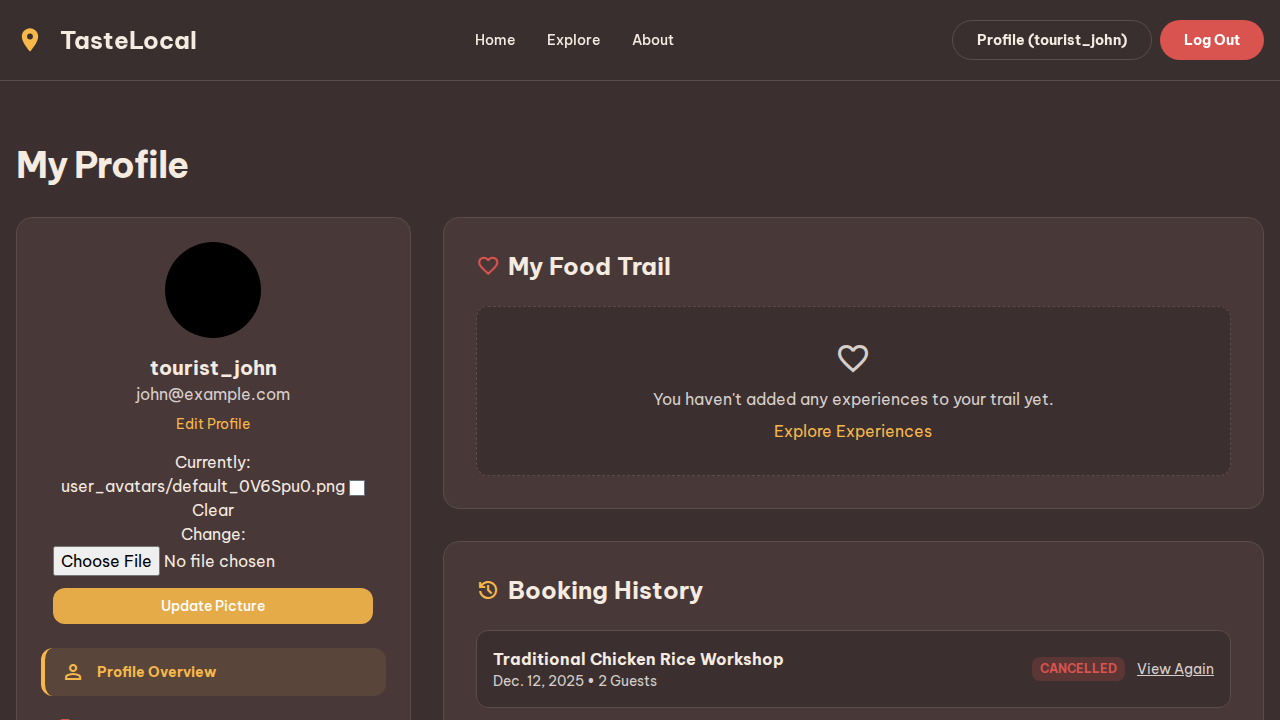
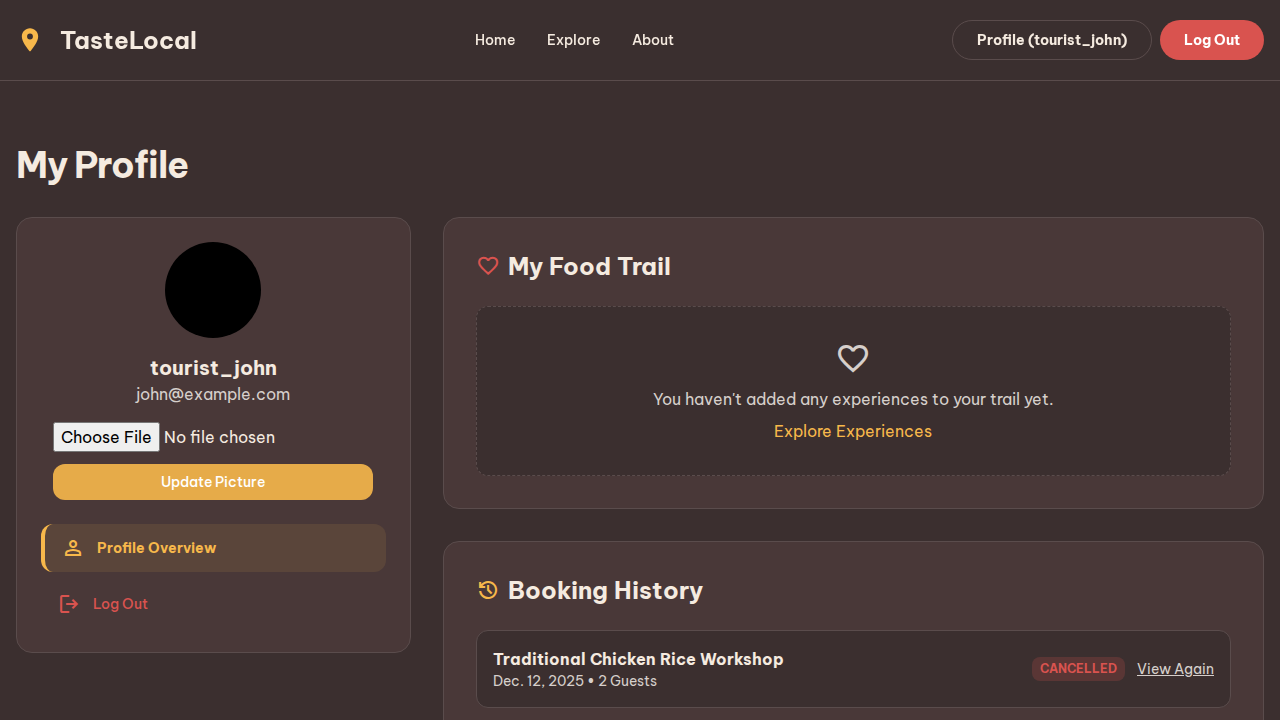
feat: Implement user feedback and enhance data
This commit incorporates several user-requested updates and data enhancements.

Key changes include:
- Added a contact number field to the UserProfile model and integrated it into the profile edit view and templates.
- Created dedicated forms (TouristUserEditForm, TouristProfileEditForm) to resolve styling issues on the profile edit page.
- Updated the data population script to include more detailed shop locations, opening hours, and an increased number of experiences.
- Modified the explore page templates to display the associated shop name and location on each dish card for better user context.
- Addressed and fixed various bugs identified during testing, including an ImportError and a database migration issue.

Changed region(s): [[0.0312, 0.5806, 0.3125, 0.9778]]

diff --git a/templates/core/edit_tourist_profile.html b/templates/core/edit_tourist_profile.html
@@ -6,10 +6,18 @@
 <section class="py-12">
     <div class="container mx-auto px-4">
         <h1 class="text-4xl font-bold mb-8">Edit Profile</h1>
-        <form method="post" class="bg-card-dark p-8 rounded-lg">
+        <form method="post" enctype="multipart/form-data" class="space-y-6 max-w-lg mx-auto bg-card-dark p-8 rounded-xl border border-border-dark">
             {% csrf_token %}
-            {{ form.as_p }}
-            <button type="submit" class="mt-4 px-6 py-2 bg-primary text-background-dark font-bold rounded hover:bg-opacity-90 transition-opacity">
+
+            <div class="space-y-4">
+                {{ user_form.as_p }}
+            </div>
+
+            <div class="space-y-4">
+                {{ profile_form.as_p }}
+            </div>
+
+            <button type="submit" class="w-full flex justify-center py-3 px-4 border border-transparent rounded-full shadow-sm text-sm font-bold text-white bg-secondary hover:bg-opacity-90 focus:outline-none focus:ring-2 focus:ring-offset-2 focus:ring-secondary">
                 Save Changes
             </button>
         </form>

diff --git a/templates/core/explore.html b/templates/core/explore.html
@@ -134,6 +134,12 @@
                             <div class="p-6 flex flex-col flex-grow">
                                 <h3 class="text-xl font-bold group-hover:text-primary transition-colors">
                                     {{ dish.name }}</h3>
+                                <p class="text-sm font-semibold text-text-dark mt-1">{{ dish.shop.business_name }}</p>
+                                <div class="flex items-center gap-1 mt-1">
+                                    <span class="material-symbols-outlined text-accent !text-base">place</span>
+                                    <span
+                                        class="text-xs font-medium text-text-dark-muted">{{ dish.shop.location|truncatechars:40 }}</span>
+                                </div>
                                 <p class="mt-2 text-sm text-text-dark-muted flex-grow">
                                     {{ dish.description|truncatewords:20 }}</p>
                                 {% if dish.price %}

diff --git a/templates/core/experience_list.html b/templates/core/experience_list.html
@@ -22,8 +22,9 @@
             </p>
             <div class="mt-4 flex justify-between items-center">
                 <div class="flex items-center gap-1">
-                    <span class="material-symbols-outlined text-accent !text-xl">place</span>
-                    <span class="text-sm font-medium">{{ experience.vendor.location }}</span>
+                    <span class="material-symbols-outlined text-accent !text-base">place</span>
+                    <span
+                        class="text-xs font-medium text-text-dark-muted">{{ experience.vendor.location|truncatechars:40 }}</span>
                 </div>
                 <div class="flex items-center gap-1">
                     <span class="text-lg font-bold text-primary">${{ experience.price }}</span>

diff --git a/templates/core/profile.html b/templates/core/profile.html
@@ -20,8 +20,6 @@ TasteLocal{% endblock %} {% block content %}
           <h2 class="text-xl font-bold">{{ user.username }}</h2>
           <p class="text-text-dark-muted">{{ user.email }}</p>
 
-          <a href="{% url 'edit_tourist_profile' %}" class="mt-2 text-sm text-primary hover:underline">Edit Profile</a>
-
           <form action="{% url 'profile' %}" method="post" enctype="multipart/form-data" class="w-full max-w-xs mt-4">
             {% csrf_token %}
             <div class="flex flex-col items-center">

diff --git a/populate_singapore_data.py b/populate_singapore_data.py
@@ -1,4 +1,3 @@
-print("Script execution started.")
 import os
 import django
 import random
@@ -47,36 +46,36 @@ def populate(start, end):
     print(f"Processing shops from index {start} to {end}")
 
     shops_data = [
-        {"name": "Tian Tian Hainanese Chicken Rice", "desc": "Famous for its tender chicken and fragrant rice.", "cat": "hawker_centre", "contact": "9691 4852", "hours": "Tue to Sun: 10am - 8pm"},
-        {"name": "Margaret Drive Sin Kee Chicken Rice", "desc": "A popular choice for chicken rice lovers.", "cat": "hawker_centre", "contact": "N/A", "hours": "Tue-Sun 11am-8pm"},
-        {"name": "Ji De Lai Hainanese Chicken Rice", "desc": "Known for its traditional Hainanese chicken rice.", "cat": "hawker_centre", "contact": "N/A", "hours": "8am – 8pm (Mon – Sun)"},
-        {"name": "Heng Heng Cooked Food", "desc": "Serving delicious Laksa and Prawn Noodles.", "cat": "hawker_centre", "contact": "N/A", "hours": "8am – 2pm (Mon – Tues, Fri – Sun), Closed Wed, Thurs"},
-        {"name": "Da Shi Jia Big Prawn Mee", "desc": "A must-try for prawn noodle enthusiasts.", "cat": "hawker_centre", "contact": "+65 6732 1085", "hours": "Daily 11am to 10pm"},
-        {"name": "Jalan Sultan Prawn Mee", "desc": "Famous for its rich and flavorful prawn broth.", "cat": "hawker_centre", "contact": "+65 6748 2488", "hours": "Daily 8am to 3.30pm (CLOSED on Tuesdays)"},
-        {"name": "Fei Fei Roasted • Noodle", "desc": "Serving delicious Wantan Mee.", "cat": "hawker_centre", "contact": "N/A", "hours": "Mon-Sat 9:15 AM to 1:00 PM. Closed: Sundays"},
-        {"name": "Joo Siah Bak Koot Teh", "desc": "A popular spot for Bak Kut Teh.", "cat": "hawker_centre", "contact": "N/A", "hours": "Tue-Sat 8am to 7.15pm. Sun 8am to 3.30pm. Closed on Mondays"},
-        {"name": "Song Fa Bak Kut Teh", "desc": "A well-known Bak Kut Teh chain.", "cat": "hawker_centre", "contact": "+65 6377 6311", "hours": "10:30am-9:30pm, daily"},
-        {"name": "Ann Chin Handmade Popiah", "desc": "Serving delicious handmade Popiah.", "cat": "hawker_centre", "contact": "+65 8189 4699", "hours": "8am to 7pm daily"},
-        {"name": "Hong Heng Fried Sotong Prawn Mee", "desc": "Famous for its Fried Hokkien Mee.", "cat": "hawker_centre", "contact": "N/A", "hours": "10.30am-2.30pm, 4.30pm-6pm (closed on Sundays & Mondays)"},
-        {"name": "Chey Sua Carrot Cake", "desc": "A must-try for carrot cake lovers.", "cat": "hawker_centre", "contact": "N/A", "hours": "Tue – Sun 6am to 1pm, closed on Mon"},
-        {"name": "Hill Street Tai Hwa Pork Noodle", "desc": "A Michelin-starred Bak Chor Mee stall.", "cat": "hawker_centre", "contact": "+65 9272 3920", "hours": "Monday to Sunday 9:00 Am - 8:30 Pm (close 1st and 3rd Monday every month)"},
-        {"name": "Ru Ji Kitchen", "desc": "Famous for its fishball noodles.", "cat": "hawker_centre", "contact": "94350820", "hours": "7am – 1pm (Tue – Sun), Closed Mon"},
-        {"name": "Jian Bo Tiong Bahru Shui Kueh", "desc": "A popular spot for Chwee Kueh.", "cat": "hawker_centre", "contact": "+65 6384 5379", "hours": "5.30am - 8.30pm"},
-        {"name": "Beach Road Fish Head Bee Hoon", "desc": "Famous for its fish head bee hoon.", "cat": "hawker_centre", "contact": "N/A", "hours": "9am to 2pm daily. Closed on Wednesdays and Saturdays."},
-        {"name": "Han Kee", "desc": "Serving delicious fish soup.", "cat": "hawker_centre", "contact": "N/A", "hours": "Mon – Fri. 10:30AM - 3:00PM. Closed Sat, Sun"},
-        {"name": "C.M.Y. Satay", "desc": "A popular spot for satay.", "cat": "hawker_centre", "contact": "9475 2907", "hours": "Tues-Sun 9am to 7pm, Closed on Mondays"},
-        {"name": "Chomp Chomp Satay", "desc": "Another great option for satay.", "cat": "hawker_centre", "contact": "N/A", "hours": "5:30pm – Late about midnight (Mon – Sun)"},
-        {"name": "Liao Fan Hawker Chan", "desc": "The cheapest Michelin-starred meal in the world.", "cat": "hawker_centre", "contact": "+65 6272 2000", "hours": "Open daily 10.30am – 8pm"},
-        {"name": "A Noodle Story", "desc": "Singapore's first and only Michelin-starred ramen.", "cat": "hawker_centre", "contact": "+65 9027 6289", "hours": "Monday to Friday: 11:15am to 2pm, 5:15pm to 7pm. Saturday: 10:45am to 1:15pm. Closed on Sunday."},
-        {"name": "The Blue Ginger", "desc": "A Michelin-starred Peranakan restaurant.", "cat": "restaurant", "contact": "(+65) 6222 3928", "hours": "Mondays – Sundays Lunch : 12pm – 3pm, Dinner : 6.30pm – 10.30pm"},
-        {"name": "Candlenut", "desc": "The world's first Michelin-starred Peranakan restaurant.", "cat": "restaurant", "contact": "1800 304 2288", "hours": "LUNCH, MON – SUN 12:00PM – 3:00PM, DINNER, MON – SUN AND EVE OF PUBLIC HOLIDAYS 6:00PM – 10:00PM"},
-        {"name": "Odette", "desc": "A three-Michelin-starred modern French restaurant.", "cat": "restaurant", "contact": "+65 6385 0498", "hours": "LUNCH TUESDAY TO SATURDAY 12.00pm to 1.15pm, DINNER MONDAY TO SATURDAY 6.30pm to 8.15pm, Closed on Sunday"},
-        {"name": "Les Amis", "desc": "A three-Michelin-starred French restaurant.", "cat": "restaurant", "contact": "+65 6733 2225", "hours": "Daily 12.00 to 14.00, 19.00 to 21.30"},
-        {"name": "Burnt Ends", "desc": "A one-Michelin-starred modern Australian barbecue restaurant.", "cat": "restaurant", "contact": "+65 6224 3933", "hours": "Lunch: Fri – Sat, Dinner: Tues – Sat"},
-        {"name": "JAAN by Kirk Westaway", "desc": "A two-Michelin-starred modern British restaurant.", "cat": "restaurant", "contact": "+65 9199 9008", "hours": "Lunch (Tue to Sat): 11:45am to 2:30pm, Dinner (Tues to Sat): 6:30pm to 10:30pm"},
-        {"name": "Shoukouwa", "desc": "A two-Michelin-starred sushi restaurant.", "cat": "restaurant", "contact": "+65 6423 9939", "hours": "Lunch Tuesday to Saturday 12.30pm to 3pm, Dinner Tuesday to Saturday 1st seating: 6pm to 8pm 2nd seating: 8.15pm to 10.30pm. Closed on Sunday and Monday."},
-        {"name": "Waku Ghin", "desc": "A two-Michelin-starred Japanese restaurant.", "cat": "restaurant", "contact": "+65 6688 8507", "hours": "Tuesday – Sunday: 5.30pm & 8pm ( 2 seatings)"},
-        {"name": "Zen", "desc": "A three-Michelin-starred modern European restaurant.", "cat": "restaurant", "contact": "+65 6534 8880", "hours": "Tuesday – Saturday: 7:00pm – 10:30pm"},
+        {"name": "Tian Tian Hainanese Chicken Rice", "desc": "Famous for its tender chicken and fragrant rice.", "cat": "hawker_centre", "contact": "9691 4852", "hours": "Tue to Sun: 10am - 8pm", "location": "Maxwell Food Centre, 1 Kadayanallur St, #01-10/11, Singapore 069184", "lat": 1.2803, "lon": 103.8449},
+        {"name": "Margaret Drive Sin Kee Chicken Rice", "desc": "A popular choice for chicken rice lovers.", "cat": "hawker_centre", "contact": "9691 4852", "hours": "Tue-Sun 11am-8pm", "location": "40 Holland Dr, #01-39, Singapore 270040", "lat": 1.3065, "lon": 103.7946},
+        {"name": "Ji De Lai Hainanese Chicken Rice", "desc": "Known for its traditional Hainanese chicken rice.", "cat": "hawker_centre", "contact": "9691 4852", "hours": "8am – 8pm (Mon – Sun)", "location": "Chinatown Complex Market & Food Centre, 335 Smith St, #02-170, Singapore 050335", "lat": 1.2818, "lon": 103.8431},
+        {"name": "Heng Heng Cooked Food", "desc": "Serving delicious Laksa and Prawn Noodles.", "cat": "hawker_centre", "contact": "9181 8181", "hours": "8am – 2pm (Mon – Tues, Fri – Sun), Closed Wed, Thurs", "location": "Hong Lim Market & Food Centre, 531A Upper Cross St, #02-09, Singapore 051531", "lat": 1.2841, "lon": 103.8451},
+        {"name": "Da Shi Jia Big Prawn Mee", "desc": "A must-try for prawn noodle enthusiasts.", "cat": "hawker_centre", "contact": "+65 6732 1085", "hours": "Daily 11am to 10pm", "location": "89 Killiney Rd, Singapore 239534", "lat": 1.2989, "lon": 103.8436},
+        {"name": "Jalan Sultan Prawn Mee", "desc": "Famous for its rich and flavorful prawn broth.", "cat": "hawker_centre", "contact": "+65 6748 2488", "hours": "Daily 8am to 3.30pm (CLOSED on Tuesdays)", "location": "2 Jalan Ayer, Singapore 389141", "lat": 1.3126, "lon": 103.8687},
+        {"name": "Fei Fei Roasted • Noodle", "desc": "Serving delicious Wantan Mee.", "cat": "hawker_centre", "contact": "9691 4852", "hours": "Mon-Sat 9:15 AM to 1:00 PM. Closed: Sundays", "location": "Yuhua Village Market and Food Centre, 254 Jurong East St 24, #01-28, Singapore 600254", "lat": 1.3468, "lon": 103.7381},
+        {"name": "Joo Siah Bak Koot Teh", "desc": "A popular spot for Bak Kut Teh.", "cat": "hawker_centre", "contact": "9691 4852", "hours": "Tue-Sat 8am to 7.15pm. Sun 8am to 3.30pm. Closed on Mondays", "location": "347 Jurong East Ave 1, #01-220, Singapore 600347", "lat": 1.3475, "lon": 103.7332},
+        {"name": "Song Fa Bak Kut Teh", "desc": "A well-known Bak Kut Teh chain.", "cat": "hawker_centre", "contact": "+65 6377 6311", "hours": "10:30am-9:30pm, daily", "location": "11 New Bridge Rd, #01-01, Singapore 059383", "lat": 1.2858, "lon": 103.8463},
+        {"name": "Ann Chin Handmade Popiah", "desc": "Serving delicious handmade Popiah.", "cat": "hawker_centre", "contact": "+65 8189 4699", "hours": "8am to 7pm daily", "location": "Chinatown Complex Market & Food Centre, 335 Smith St, #02-112, Singapore 050335", "lat": 1.2818, "lon": 103.8431},
+        {"name": "Hong Heng Fried Sotong Prawn Mee", "desc": "Famous for its Fried Hokkien Mee.", "cat": "hawker_centre", "contact": "9691 4852", "hours": "10.30am-2.30pm, 4.30pm-6pm (closed on Sundays & Mondays)", "location": "Tiong Bahru Market, 30 Seng Poh Rd, #02-01, Singapore 168898", "lat": 1.2850, "lon": 103.8329},
+        {"name": "Chey Sua Carrot Cake", "desc": "A must-try for carrot cake lovers.", "cat": "hawker_centre", "contact": "9691 4852", "hours": "Tue – Sun 6am to 1pm, closed on Mon", "location": "Toa Payoh West Market and Food Court, 127 Lor 1 Toa Payoh, #02-30, Singapore 310127", "lat": 1.3323, "lon": 103.8459},
+        {"name": "Hill Street Tai Hwa Pork Noodle", "desc": "A Michelin-starred Bak Chor Mee stall.", "cat": "hawker_centre", "contact": "+65 9272 3920", "hours": "Monday to Sunday 9:00 Am - 8:30 Pm (close 1st and 3rd Monday every month)", "location": "466 Crawford Ln, #01-12, Singapore 190466", "lat": 1.3065, "lon": 103.8617},
+        {"name": "Ru Ji Kitchen", "desc": "Famous for its fishball noodles.", "cat": "hawker_centre", "contact": "94350820", "hours": "7am – 1pm (Tue – Sun), Closed Mon", "location": "Old Airport Road Food Centre, 51 Old Airport Rd, #01-37, Singapore 390051", "lat": 1.3085, "lon": 103.8850},
+        {"name": "Jian Bo Tiong Bahru Shui Kueh", "desc": "A popular spot for Chwee Kueh.", "cat": "hawker_centre", "contact": "+65 6384 5379", "hours": "5.30am - 8.30pm", "location": "Tiong Bahru Market, 30 Seng Poh Rd, #02-05, Singapore 168898", "lat": 1.2850, "lon": 103.8329},
+        {"name": "Beach Road Fish Head Bee Hoon", "desc": "Famous for its fish head bee hoon.", "cat": "hawker_centre", "contact": "9691 4852", "hours": "9am to 2pm daily. Closed on Wednesdays and Saturdays.", "location": "Whampoa Makan Place, 91 Whampoa Dr, #01-46, Singapore 320091", "lat": 1.3218, "lon": 103.8557},
+        {"name": "Han Kee", "desc": "Serving delicious fish soup.", "cat": "hawker_centre", "contact": "9691 4852", "hours": "Mon – Fri. 10:30AM - 3:00PM. Closed Sat, Sun", "location": "Amoy Street Food Centre, 7 Maxwell Rd, #02-129, Singapore 069111", "lat": 1.2785, "lon": 103.8465},
+        {"name": "C.M.Y. Satay", "desc": "A popular spot for satay.", "cat": "hawker_centre", "contact": "9475 2907", "hours": "Tues-Sun 9am to 7pm, Closed on Mondays", "location": "Lau Pa Sat, 18 Raffles Quay, Singapore 048582", "lat": 1.2798, "lon": 103.8505},
+        {"name": "Chomp Chomp Satay", "desc": "Another great option for satay.", "cat": "hawker_centre", "contact": "9691 4852", "hours": "5:30pm – Late about midnight (Mon – Sun)", "location": "Chomp Chomp Food Centre, 20 Kensington Park Rd, Singapore 557269", "lat": 1.3639, "lon": 103.8631},
+        {"name": "Liao Fan Hawker Chan", "desc": "The cheapest Michelin-starred meal in the world.", "cat": "hawker_centre", "contact": "+65 6272 2000", "hours": "Open daily 10.30am – 8pm", "location": "78 Smith St, Singapore 058972", "lat": 1.2825, "lon": 103.8433},
+        {"name": "A Noodle Story", "desc": "Singapore's first and only Michelin-starred ramen.", "cat": "hawker_centre", "contact": "+65 9027 6289", "hours": "Monday to Friday: 11:15am to 2pm, 5:15pm to 7pm. Saturday: 10:45am to 1:15pm. Closed on Sunday.", "location": "Amoy Street Food Centre, 7 Maxwell Rd, #01-39, Singapore 069111", "lat": 1.2785, "lon": 103.8465},
+        {"name": "The Blue Ginger", "desc": "A Michelin-starred Peranakan restaurant.", "cat": "restaurant", "contact": "(+65) 6222 3928", "hours": "Mondays – Sundays Lunch : 12pm – 3pm, Dinner : 6.30pm – 10.30pm", "location": "97 Tanjong Pagar Rd, Singapore 088518", "lat": 1.2783, "lon": 103.8434},
+        {"name": "Candlenut", "desc": "The world's first Michelin-starred Peranakan restaurant.", "cat": "restaurant", "contact": "1800 304 2288", "hours": "LUNCH, MON – SUN 12:00PM – 3:00PM, DINNER, MON – SUN AND EVE OF PUBLIC HOLIDAYS 6:00PM – 10:00PM", "location": "17A Dempsey Rd, Singapore 249676", "lat": 1.3046, "lon": 103.8073},
+        {"name": "Odette", "desc": "A three-Michelin-starred modern French restaurant.", "cat": "restaurant", "contact": "+65 6385 0498", "hours": "LUNCH TUESDAY TO SATURDAY 12.00pm to 1.15pm, DINNER MONDAY TO SATURDAY 6.30pm to 8.15pm, Closed on Sunday", "location": "1 St Andrew's Rd, #01-04 National Gallery, Singapore 178957", "lat": 1.2896, "lon": 103.8520},
+        {"name": "Les Amis", "desc": "A three-Michelin-starred French restaurant.", "cat": "restaurant", "contact": "+65 6733 2225", "hours": "Daily 12.00 to 14.00, 19.00 to 21.30", "location": "1 Scotts Rd, #01-16 Shaw Centre, Singapore 228208", "lat": 1.3050, "lon": 103.8322},
+        {"name": "Burnt Ends", "desc": "A one-Michelin-starred modern Australian barbecue restaurant.", "cat": "restaurant", "contact": "+65 6224 3933", "hours": "Lunch: Fri – Sat, Dinner: Tues – Sat", "location": "7 Dempsey Rd, #01-04, Singapore 249671", "lat": 1.3046, "lon": 103.8073},
+        {"name": "JAAN by Kirk Westaway", "desc": "A two-Michelin-starred modern British restaurant.", "cat": "restaurant", "contact": "+65 9199 9008", "hours": "Lunch (Tue to Sat): 11:45am to 2:30pm, Dinner (Tues to Sat): 6:30pm to 10:30pm", "location": "2 Stamford Rd, Level 70, Swissôtel The Stamford, Singapore 178882", "lat": 1.2929, "lon": 103.8526},
+        {"name": "Shoukouwa", "desc": "A two-Michelin-starred sushi restaurant.", "cat": "restaurant", "contact": "+65 6423 9939", "hours": "Lunch Tuesday to Saturday 12.30pm to 3pm, Dinner Tuesday to Saturday 1st seating: 6pm to 8pm 2nd seating: 8.15pm to 10.30pm. Closed on Sunday and Monday.", "location": "1 Fullerton Rd, #02-02A One Fullerton, Singapore 049213", "lat": 1.2856, "lon": 103.8550},
+        {"name": "Waku Ghin", "desc": "A two-Michelin-starred Japanese restaurant.", "cat": "restaurant", "contact": "+65 6688 8507", "hours": "Tuesday – Sunday: 5.30pm & 8pm ( 2 seatings)", "location": "2 Bayfront Ave, #02-01, The Shoppes at Marina Bay Sands, Singapore 018972", "lat": 1.2830, "lon": 103.8602},
+        {"name": "Zen", "desc": "A three-Michelin-starred modern European restaurant.", "cat": "restaurant", "contact": "+65 6534 8880", "hours": "Tuesday – Saturday: 7:00pm – 10:30pm", "location": "41 Bukit Pasoh Rd, Singapore 089855", "lat": 1.2796, "lon": 103.8415},
     ]
 
     dishes_data = {
@@ -306,7 +305,9 @@ def populate(start, end):
             defaults={
                 'business_name': s_data['name'],
                 'description': s_data['desc'],
-                'location': 'Singapore',
+                'location': s_data['location'],
+                'latitude': s_data['lat'],
+                'longitude': s_data['lon'],
                 'category': s_data['cat'],
                 'contact_number': s_data['contact'],
                 'opening_hours': s_data['hours']
@@ -315,6 +316,18 @@ def populate(start, end):
         if created:
             print(f"Created Shop: {s_data['name']}")
             save_image_from_url(shop, f"{s_data['name']} singapore hawker stall storefront")
+        else:
+             # Update existing shop
+            shop.business_name = s_data['name']
+            shop.description = s_data['desc']
+            shop.location = s_data['location']
+            shop.latitude = s_data['lat']
+            shop.longitude = s_data['lon']
+            shop.category = s_data['cat']
+            shop.contact_number = s_data['contact']
+            shop.opening_hours = s_data['hours']
+            shop.save()
+            print(f"Updated Shop: {s_data['name']}")
 
         shops.append(shop)
 
@@ -337,8 +350,26 @@ def populate(start, end):
         experiences_data = [
             {"title": "Singapore Hawker Food Tour", "desc": "Explore the best of Singapore's hawker culture with our guided food tour.", "price": 50.00, "vendor_name": "Tian Tian Hainanese Chicken Rice"},
             {"title": "Chinatown Food Adventure", "desc": "A guided tour of the best food stalls in Chinatown.", "price": 60.00, "vendor_name": "Liao Fan Hawker Chan"},
-            {"title": "Little India Culinary Journey", "desc": "Discover the vibrant flavors of Little India's street food.", "price": 55.00, "vendor_name": "The Blue Ginger"}
+            {"title": "Little India Culinary Journey", "desc": "Discover the vibrant flavors of Little India's street food.", "price": 55.00, "vendor_name": "The Blue Ginger"},
+            {"title": "Michelin Starred Hawker Crawl", "desc": "Taste the cheapest Michelin-starred meals in the world.", "price": 75.00, "vendor_name": "Hill Street Tai Hwa Pork Noodle"},
+            {"title": "Seafood Discovery Tour", "desc": "A tour dedicated to Singapore's best seafood dishes.", "price": 80.00, "vendor_name": "Da Shi Jia Big Prawn Mee"},
+            {"title": "Peranakan Cuisine Workshop", "desc": "Learn to cook authentic Peranakan dishes.", "price": 90.00, "vendor_name": "Candlenut"},
+            {"title": "Late Night Supper Trail", "desc": "Explore Singapore's vibrant late-night food scene.", "price": 45.00, "vendor_name": "Chomp Chomp Satay"},
+            {"title": "Bak Kut Teh Bonanza", "desc": "A tour for lovers of the iconic pork rib soup.", "price": 50.00, "vendor_name": "Song Fa Bak Kut Teh"},
+            {"title": "The Ultimate Chicken Rice Challenge", "desc": "Taste and compare the best chicken rice in Singapore.", "price": 65.00, "vendor_name": "Margaret Drive Sin Kee Chicken Rice"},
+            {"title": "Noodle Nirvana Tour", "desc": "A journey through the best noodle dishes Singapore has to offer.", "price": 60.00, "vendor_name": "A Noodle Story"},
+            {"title": "Sweet Treats and Desserts Tour", "desc": "Discover Singapore's best local desserts.", "price": 40.00, "vendor_name": "Jian Bo Tiong Bahru Shui Kueh"},
+            {"title": "Vegetarian Foodie Walk", "desc": "A tour of the best vegetarian-friendly hawker stalls.", "price": 55.00, "vendor_name": "Ann Chin Handmade Popiah"},
+            {"title": "Tiong Bahru Market Exploration", "desc": "A deep dive into one of Singapore's most iconic markets.", "price": 50.00, "vendor_name": "Hong Heng Fried Sotong Prawn Mee"},
+            {"title": "Fine Dining Experience", "desc": "A curated evening at one of Singapore's top restaurants.", "price": 250.00, "vendor_name": "Odette"},
+            {"title": "Modern Singaporean Food Tour", "desc": "Explore the innovative and modern side of Singaporean cuisine.", "price": 85.00, "vendor_name": "Burnt Ends"},
+            {"title": "Sushi Masterclass", "desc": "Learn the art of sushi making from a master.", "price": 150.00, "vendor_name": "Shoukouwa"},
+            {"title": "French Gastronomy in Singapore", "desc": "Experience the best of French cuisine in the heart of Singapore.", "price": 200.00, "vendor_name": "Les Amis"},
+            {"title": "British Classics with a Twist", "desc": "A unique dining experience of modern British cuisine.", "price": 180.00, "vendor_name": "JAAN by Kirk Westaway"},
+            {"title": "Japanese Teppanyaki Spectacle", "desc": "Enjoy a spectacular teppanyaki performance and meal.", "price": 120.00, "vendor_name": "Waku Ghin"},
+            {"title": "A Culinary Journey with Zen", "desc": "An unforgettable multi-course tasting menu.", "price": 300.00, "vendor_name": "Zen"}
         ]
+
 
         for e_data in experiences_data:
             try:

diff --git a/core/views.py b/core/views.py
@@ -10,7 +10,7 @@ from django.contrib.contenttypes.models import ContentType
 from .models import User, Experience, Booking, Shop, Review, Favorite, UserProfile, Dish
 
 # Custom Forms
-from .forms import CustomUserCreationForm, ExperienceForm, ShopProfileForm, UserProfileForm, BookingForm, TouristProfileForm
+from .forms import CustomUserCreationForm, ExperienceForm, ShopProfileForm, UserProfileForm, BookingForm, TouristUserEditForm, TouristProfileEditForm
 
 def home(request):
     featured_experiences = Experience.objects.all().order_by('-created_at')[:3]
@@ -337,15 +337,32 @@ def vendor_detail(request, pk):
     return render(request, 'core/vendor_detail.html', {'shop': shop, 'experiences': experiences})
 
 @login_required
-def edit_tourist_profile(request):
+def profile_edit_view(request):
     if not request.user.is_tourist:
         return redirect('home')
 
+    user_profile, _ = UserProfile.objects.get_or_create(user=request.user)
+
     if request.method == 'POST':
-        form = TouristProfileForm(request.POST, instance=request.user)
-        if form.is_valid():
-            form.save()
+        user_form = TouristUserEditForm(request.POST, instance=request.user)
+        profile_form = TouristProfileEditForm(request.POST, request.FILES, instance=user_profile)
+
+        if user_form.is_valid() and profile_form.is_valid():
+            user_form.save()
+            profile_form.save()
+            messages.success(request, 'Your profile has been updated successfully!')
             return redirect('profile')
     else:
-        form = TouristProfileForm(instance=request.user)
-    return render(request, 'core/edit_tourist_profile.html', {'form': form})
+        user_form = TouristUserEditForm(instance=request.user)
+        profile_form = TouristProfileEditForm(instance=user_profile)
+
+    # Add styling to the form fields
+    for field in user_form.fields.values():
+        field.widget.attrs.update({'class': 'form-input w-full rounded-lg border-border-dark bg-background-dark px-4 py-2.5 text-text-dark focus:border-primary focus:ring-primary'})
+    for field in profile_form.fields.values():
+        field.widget.attrs.update({'class': 'form-input w-full rounded-lg border-border-dark bg-background-dark px-4 py-2.5 text-text-dark focus:border-primary focus:ring-primary'})
+
+    return render(request, 'core/edit_tourist_profile.html', {
+        'user_form': user_form,
+        'profile_form': profile_form
+    })

diff --git a/create_test_users.py b/create_test_users.py
@@ -67,6 +67,14 @@ def create_test_users():
             'price': 65.00
         }
     )
+    Experience.objects.get_or_create(
+        vendor=shop_profile,
+        title="Singapore Hawker Food Tour",
+        defaults={
+            'description': "Explore the best of Singapore's hawker culture with our guided food tour.",
+            'price': 50.00
+        }
+    )
 
     # 3. Tourist User 1
     tourist_user, created = User.objects.get_or_create(username='tourist_john', defaults={
@@ -128,7 +136,14 @@ def create_test_users():
 
     # Create a booking for the tourist user for a specific experience
     try:
-        experience_to_book = Experience.objects.get(title="Traditional Chicken Rice Workshop")
+        experience_to_book, _ = Experience.objects.get_or_create(
+            vendor=shop_profile,
+            title="Traditional Chicken Rice Workshop",
+            defaults={
+                'description': "Learn to cook authentic Hainanese Chicken Rice with Tina.",
+                'price': 80.00
+            }
+        )
         experience_content_type = ContentType.objects.get_for_model(Experience)
 
         # Use a future date for the booking to ensure it's active

diff --git a/core/forms.py b/core/forms.py
@@ -4,15 +4,23 @@ from django.contrib.auth.forms import UserCreationForm
 from .models import User, Experience, Shop, UserProfile, Booking
 import datetime
 
-class TouristProfileForm(forms.ModelForm):
+class TouristUserEditForm(forms.ModelForm):
     class Meta:
         model = User
         fields = ['username', 'email', 'first_name', 'last_name']
+
+class TouristProfileEditForm(forms.ModelForm):
+    class Meta:
+        model = UserProfile
+        fields = ['contact_number', 'image']
 
 class UserProfileForm(forms.ModelForm):
     class Meta:
         model = UserProfile
         fields = ['image']
+        widgets = {
+            'image': forms.FileInput(attrs={'id': 'id_image'}),
+        }
 
 class CustomUserCreationForm(UserCreationForm):
     USER_TYPE_CHOICES = (

diff --git a/core/urls.py b/core/urls.py
@@ -18,7 +18,7 @@ urlpatterns = [
     path('booking/confirmation/<int:pk>/', views.booking_confirmation, name='booking_confirmation'),
     path('booking/cancel/<int:pk>/', views.cancel_booking, name='cancel_booking'),
     path('profile/', views.profile, name='profile'),
-    path('profile/edit/', views.edit_tourist_profile, name='edit_tourist_profile'),
+    path('profile/edit/', views.profile_edit_view, name='profile_edit'),
     path('shop/', views.vendor_dashboard, name='vendor_dashboard'),
     path('shop/<int:pk>/', views.vendor_detail, name='vendor_detail'),
     path('shop/profile/edit/', views.edit_vendor_profile, name='edit_vendor_profile'),

diff --git a/core/migrations/0002_userprofile_contact_number.py b/core/migrations/0002_userprofile_contact_number.py
@@ -1,0 +1,18 @@
+# Generated by Django 5.2.8 on 2025-12-02 10:50
+
+from django.db import migrations, models
+
+
+class Migration(migrations.Migration):
+
+    dependencies = [
+        ("core", "0001_initial"),
+    ]
+
+    operations = [
+        migrations.AddField(
+            model_name="userprofile",
+            name="contact_number",
+            field=models.CharField(blank=True, max_length=20, null=True),
+        ),
+    ]

diff --git a/tests/e2e/test_profile_picture_upload.py b/tests/e2e/test_profile_picture_upload.py
@@ -8,7 +8,7 @@ def test_profile_picture_upload(page: Page):
     page.click("button[type='submit']")
     page.wait_for_url("http://127.0.0.1:8000/profile/")
 
-    page.set_input_files("input[type='file']", "tests/assets/default.png")
+    page.set_input_files("input#id_image", "tests/assets/default.png")
     page.click("button[name='update_picture']")
     page.wait_for_load_state("networkidle")
 

diff --git a/core/models.py b/core/models.py
@@ -9,6 +9,7 @@ class User(AbstractUser):
 
 class UserProfile(models.Model):
     user = models.OneToOneField(User, on_delete=models.CASCADE, related_name='profile')
+    contact_number = models.CharField(max_length=20, blank=True, null=True)
     image = models.ImageField(upload_to='user_avatars/', blank=True, null=True)
 
     def __str__(self):
